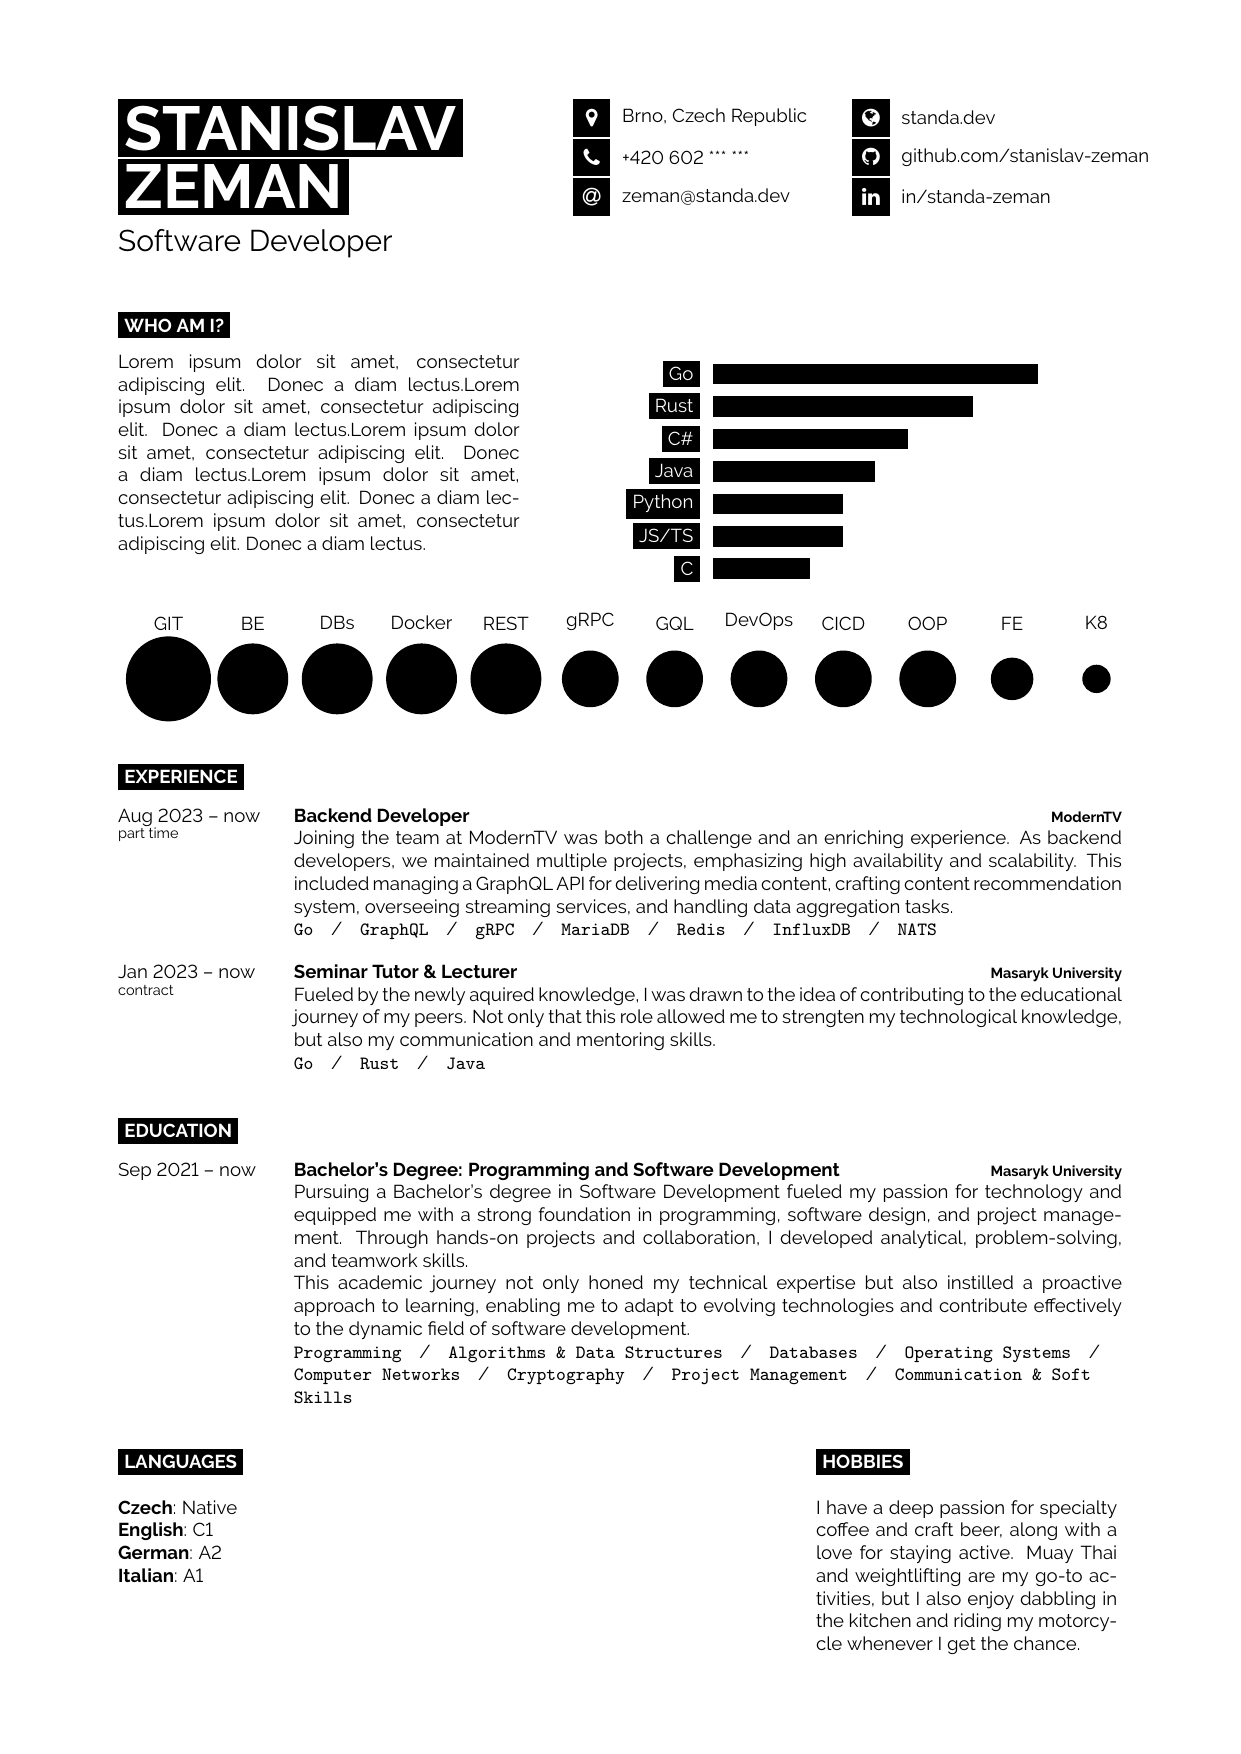
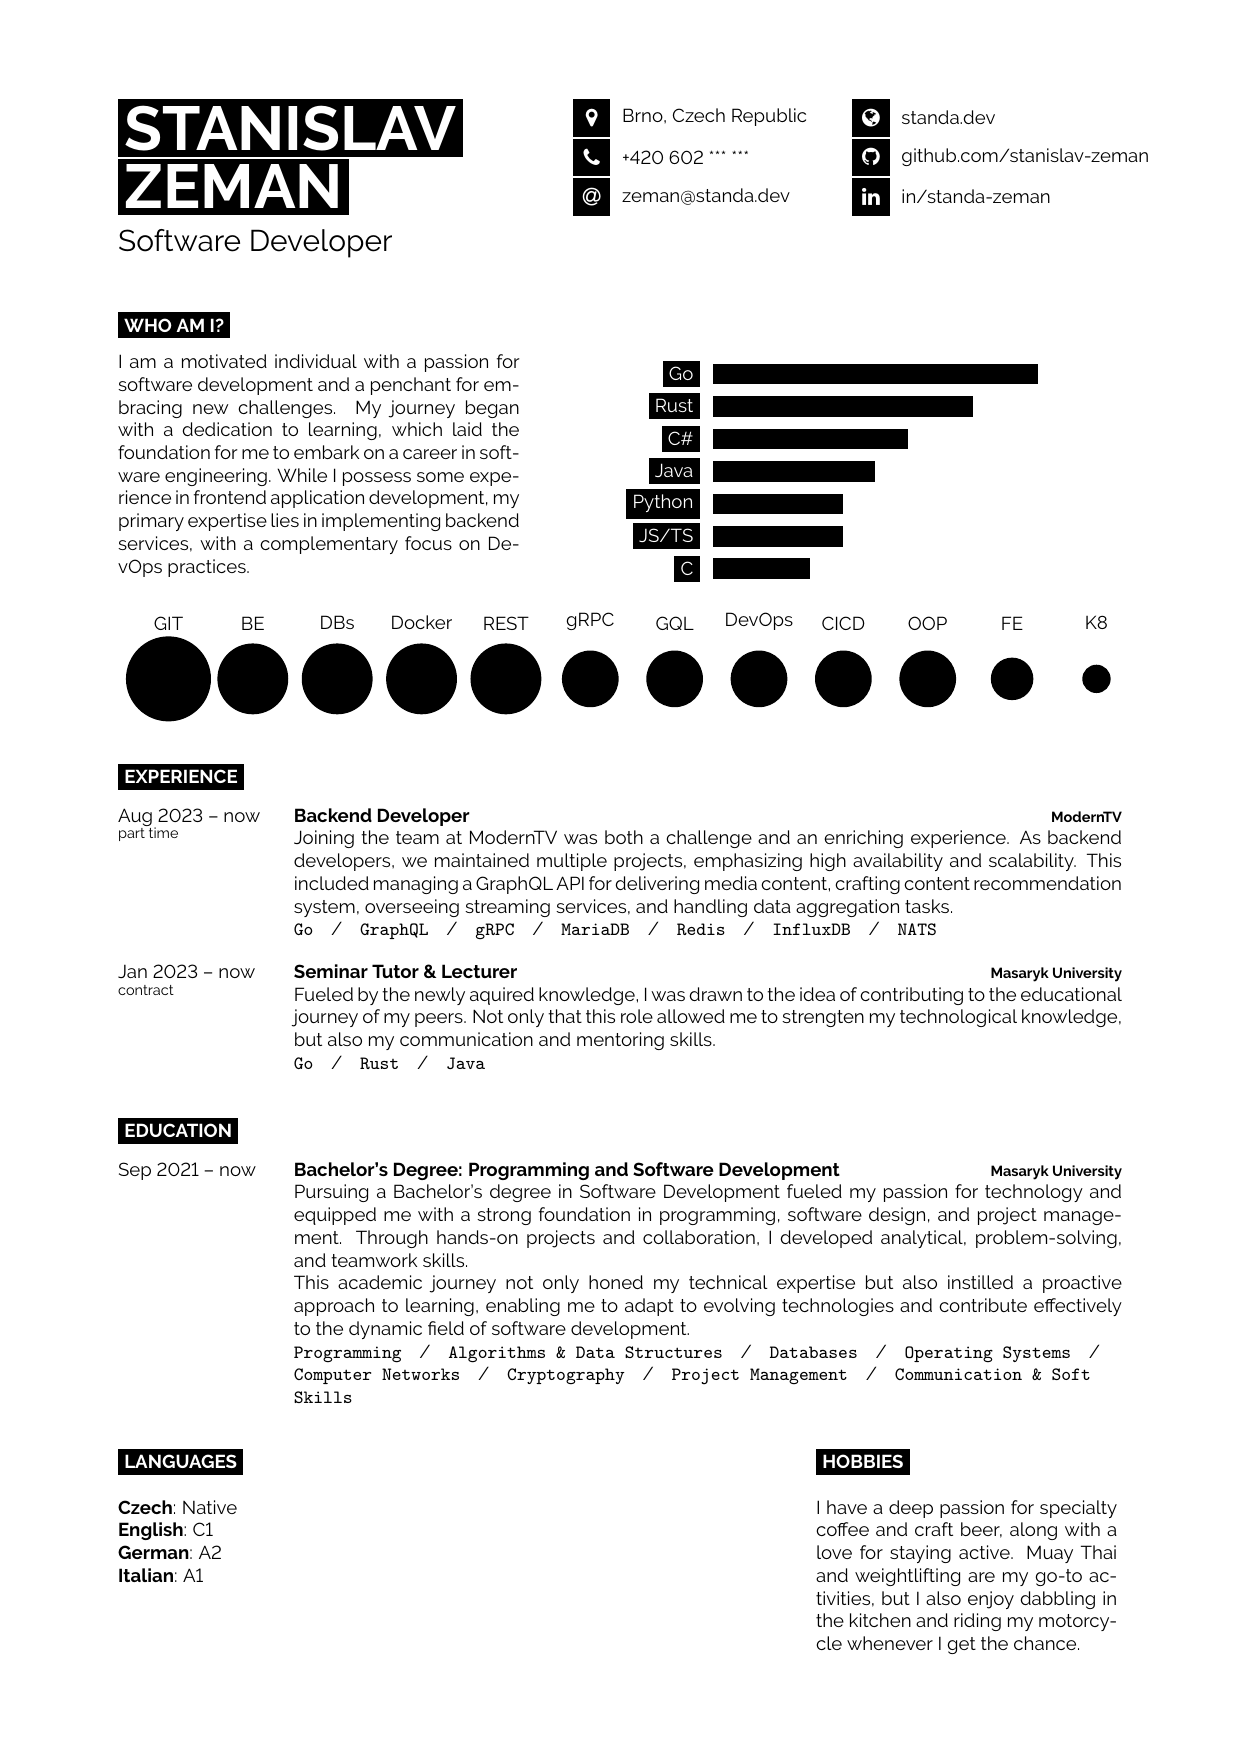
feat: add bio

Changed region(s): [[0.0919, 0.1847, 0.4287, 0.3387]]

diff --git a/cv.tex b/cv.tex
@@ -34,7 +34,7 @@
 \begin{minipage}[t]{0.4\textwidth} % 40% of the page width for the introduction text
 	\vspace{-\baselineskip} % Required for vertically aligning minipages
 	
-	\lorem \lorem \lorem \lorem \lorem\\ % Dummy text
+	I am a motivated individual with a passion for software development and a penchant for embracing new challenges. My journey began with a dedication to learning, which laid the foundation for me to embark on a career in software engineering. While I possess some experience in frontend application development, my primary expertise lies in implementing backend services, with a complementary focus on DevOps practices.
 \end{minipage}
 \hfill % Whitespace between
 \begin{minipage}[t]{0.5\textwidth} % 50% of the page for the skills bar chart
